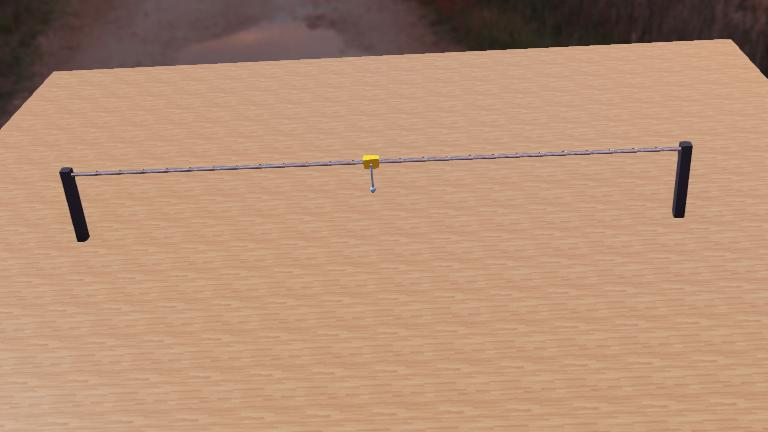
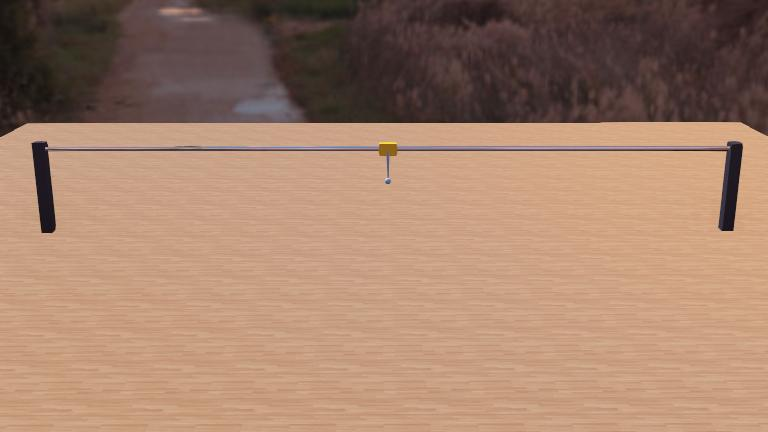
ready

diff --git a/controllers/lqr_controller/lqr_controller.py b/controllers/lqr_controller/lqr_controller.py
@@ -23,11 +23,10 @@ THETA_CAPTURE = 0.45
 THETA_ABANDON = 1.2
 
 DURATION = 5.0
-times = []
 
 def run_robot():
     angles = []
-    
+    times = []
     robot=Supervisor()
     dt=robot.getBasicTimeStep() / 1000.0
     timestep_ms=int(robot.getBasicTimeStep())
@@ -114,7 +113,7 @@ def run_robot():
     robot.simulationSetMode(Supervisor.SIMULATION_MODE_PAUSE)
     #robot.simulationSetMode(Supervisor.SIMULATION_MODE_RESET)
     angles = np.array(angles)
-    np.save("angles.npy", angles)
+    np.save("../../results/angles.npy", angles)
 
 if __name__ == "__main__":
     run_robot()